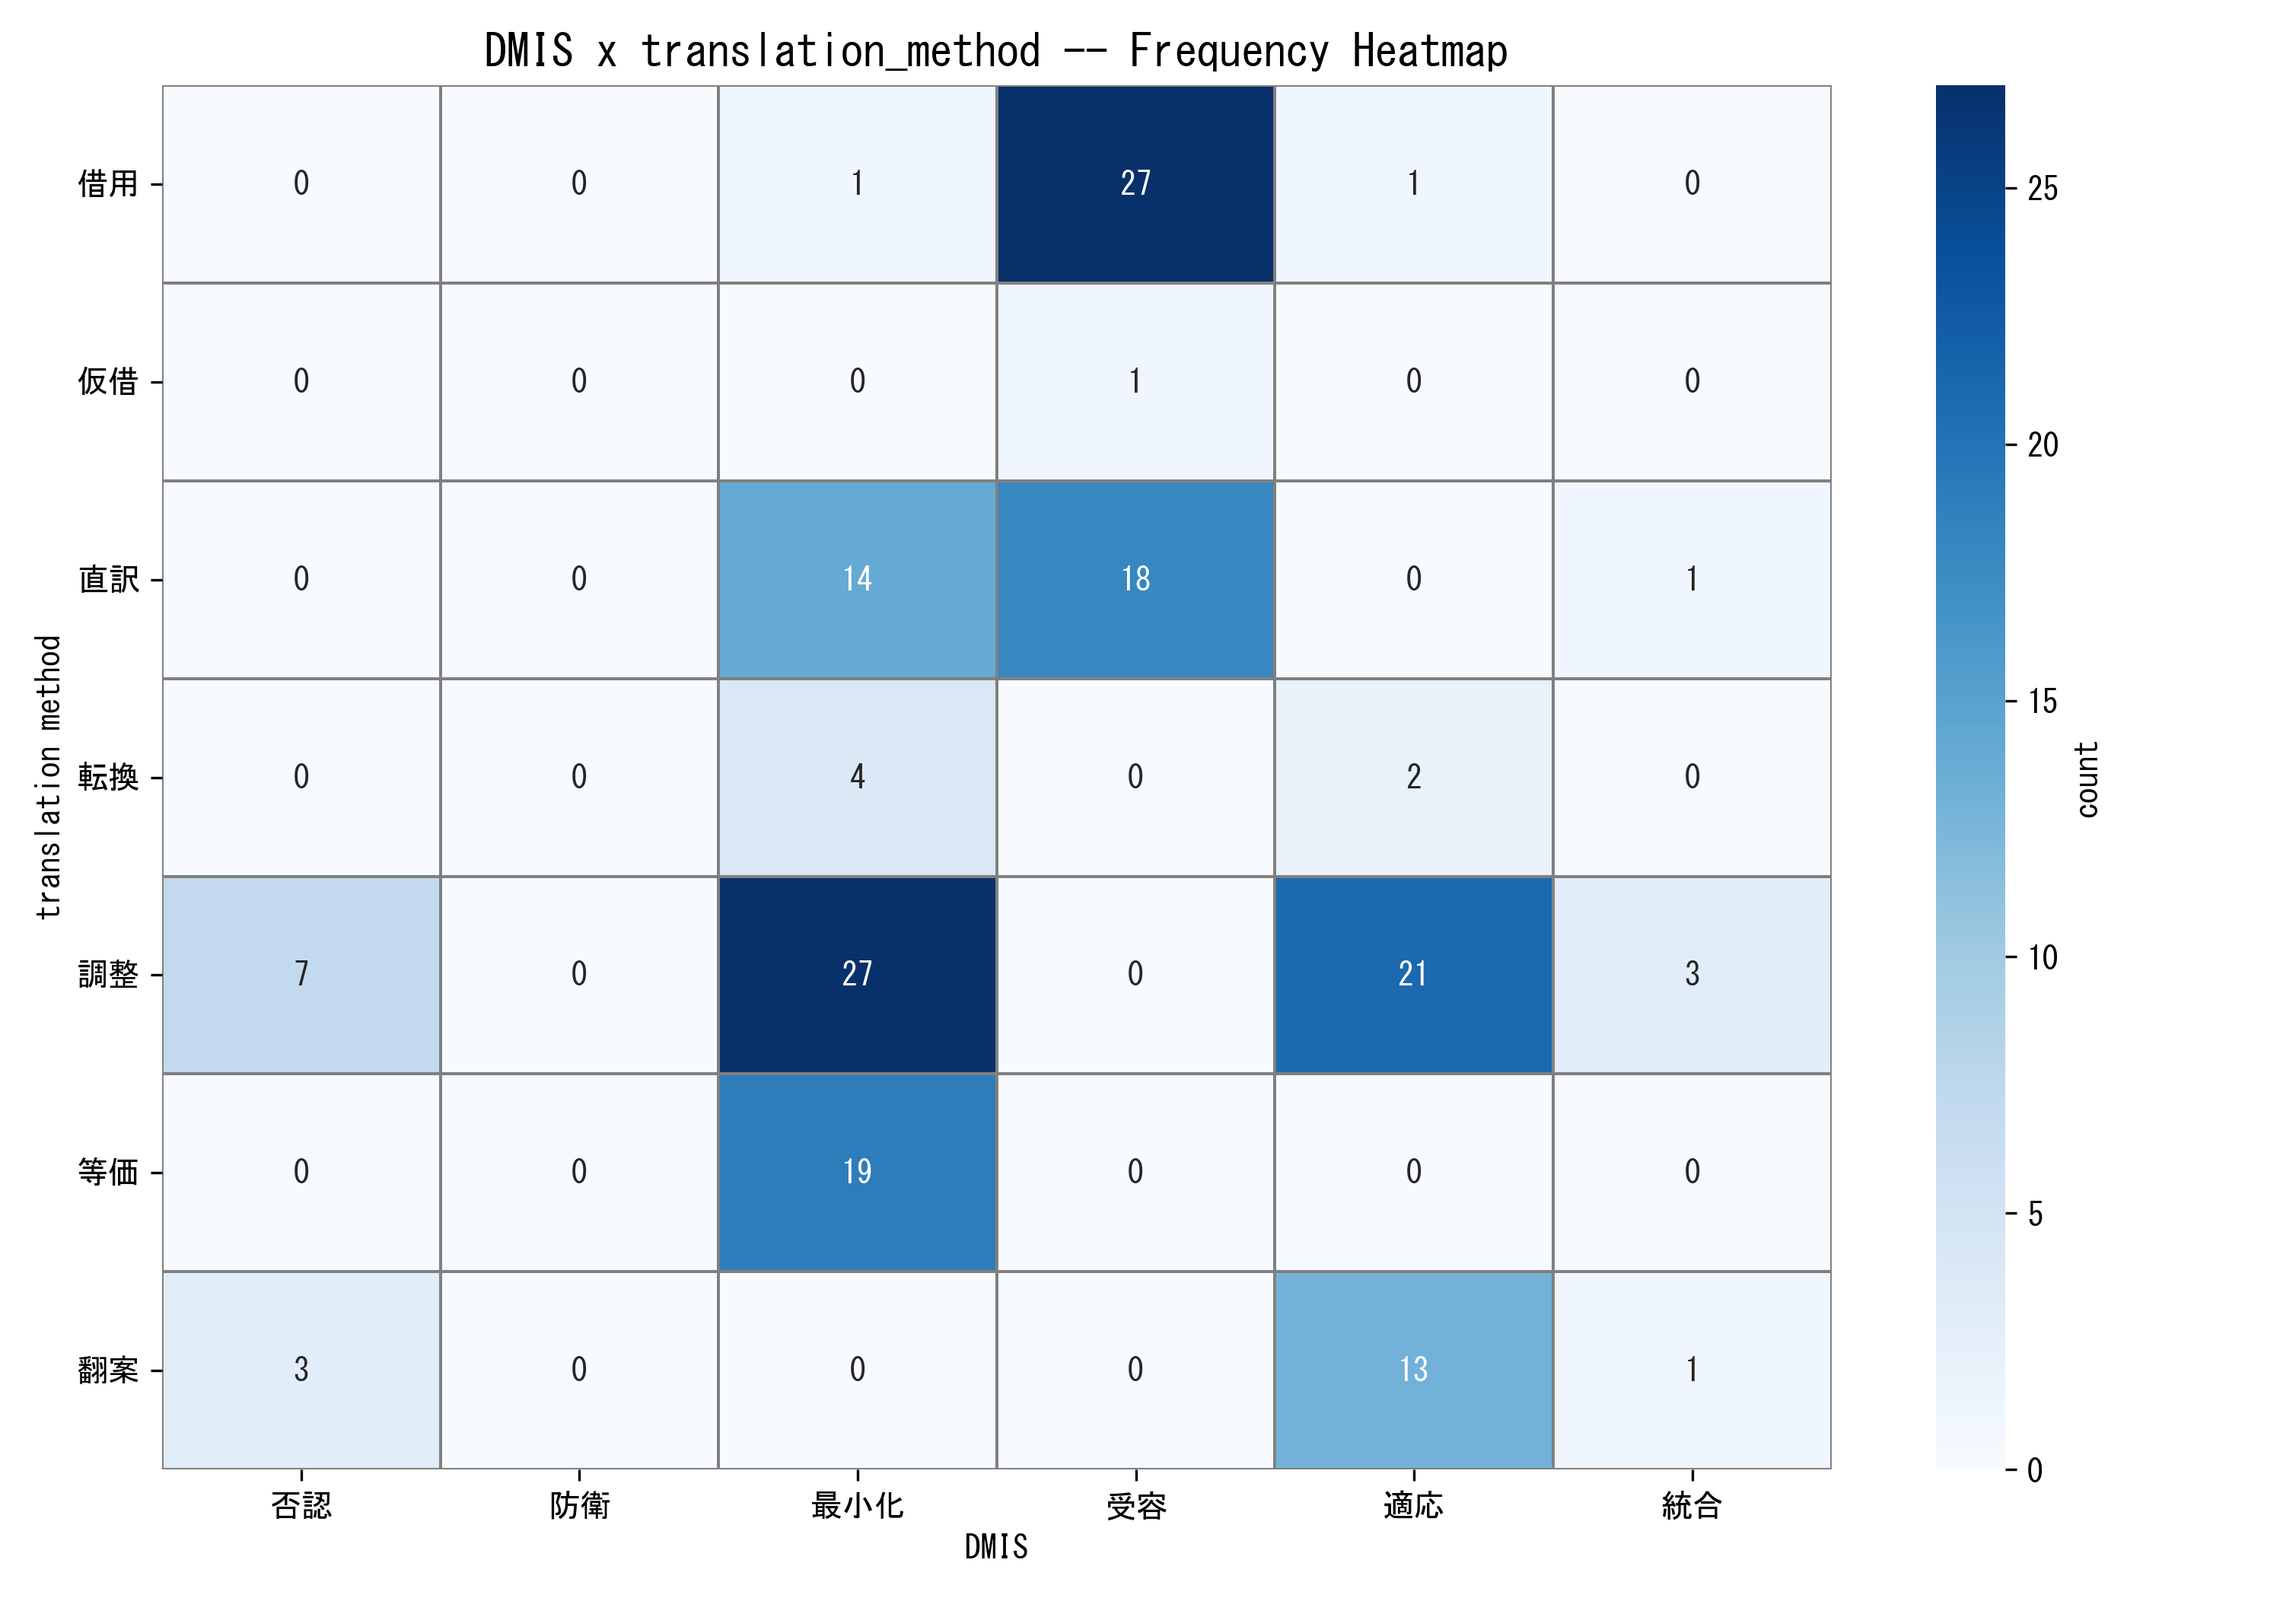
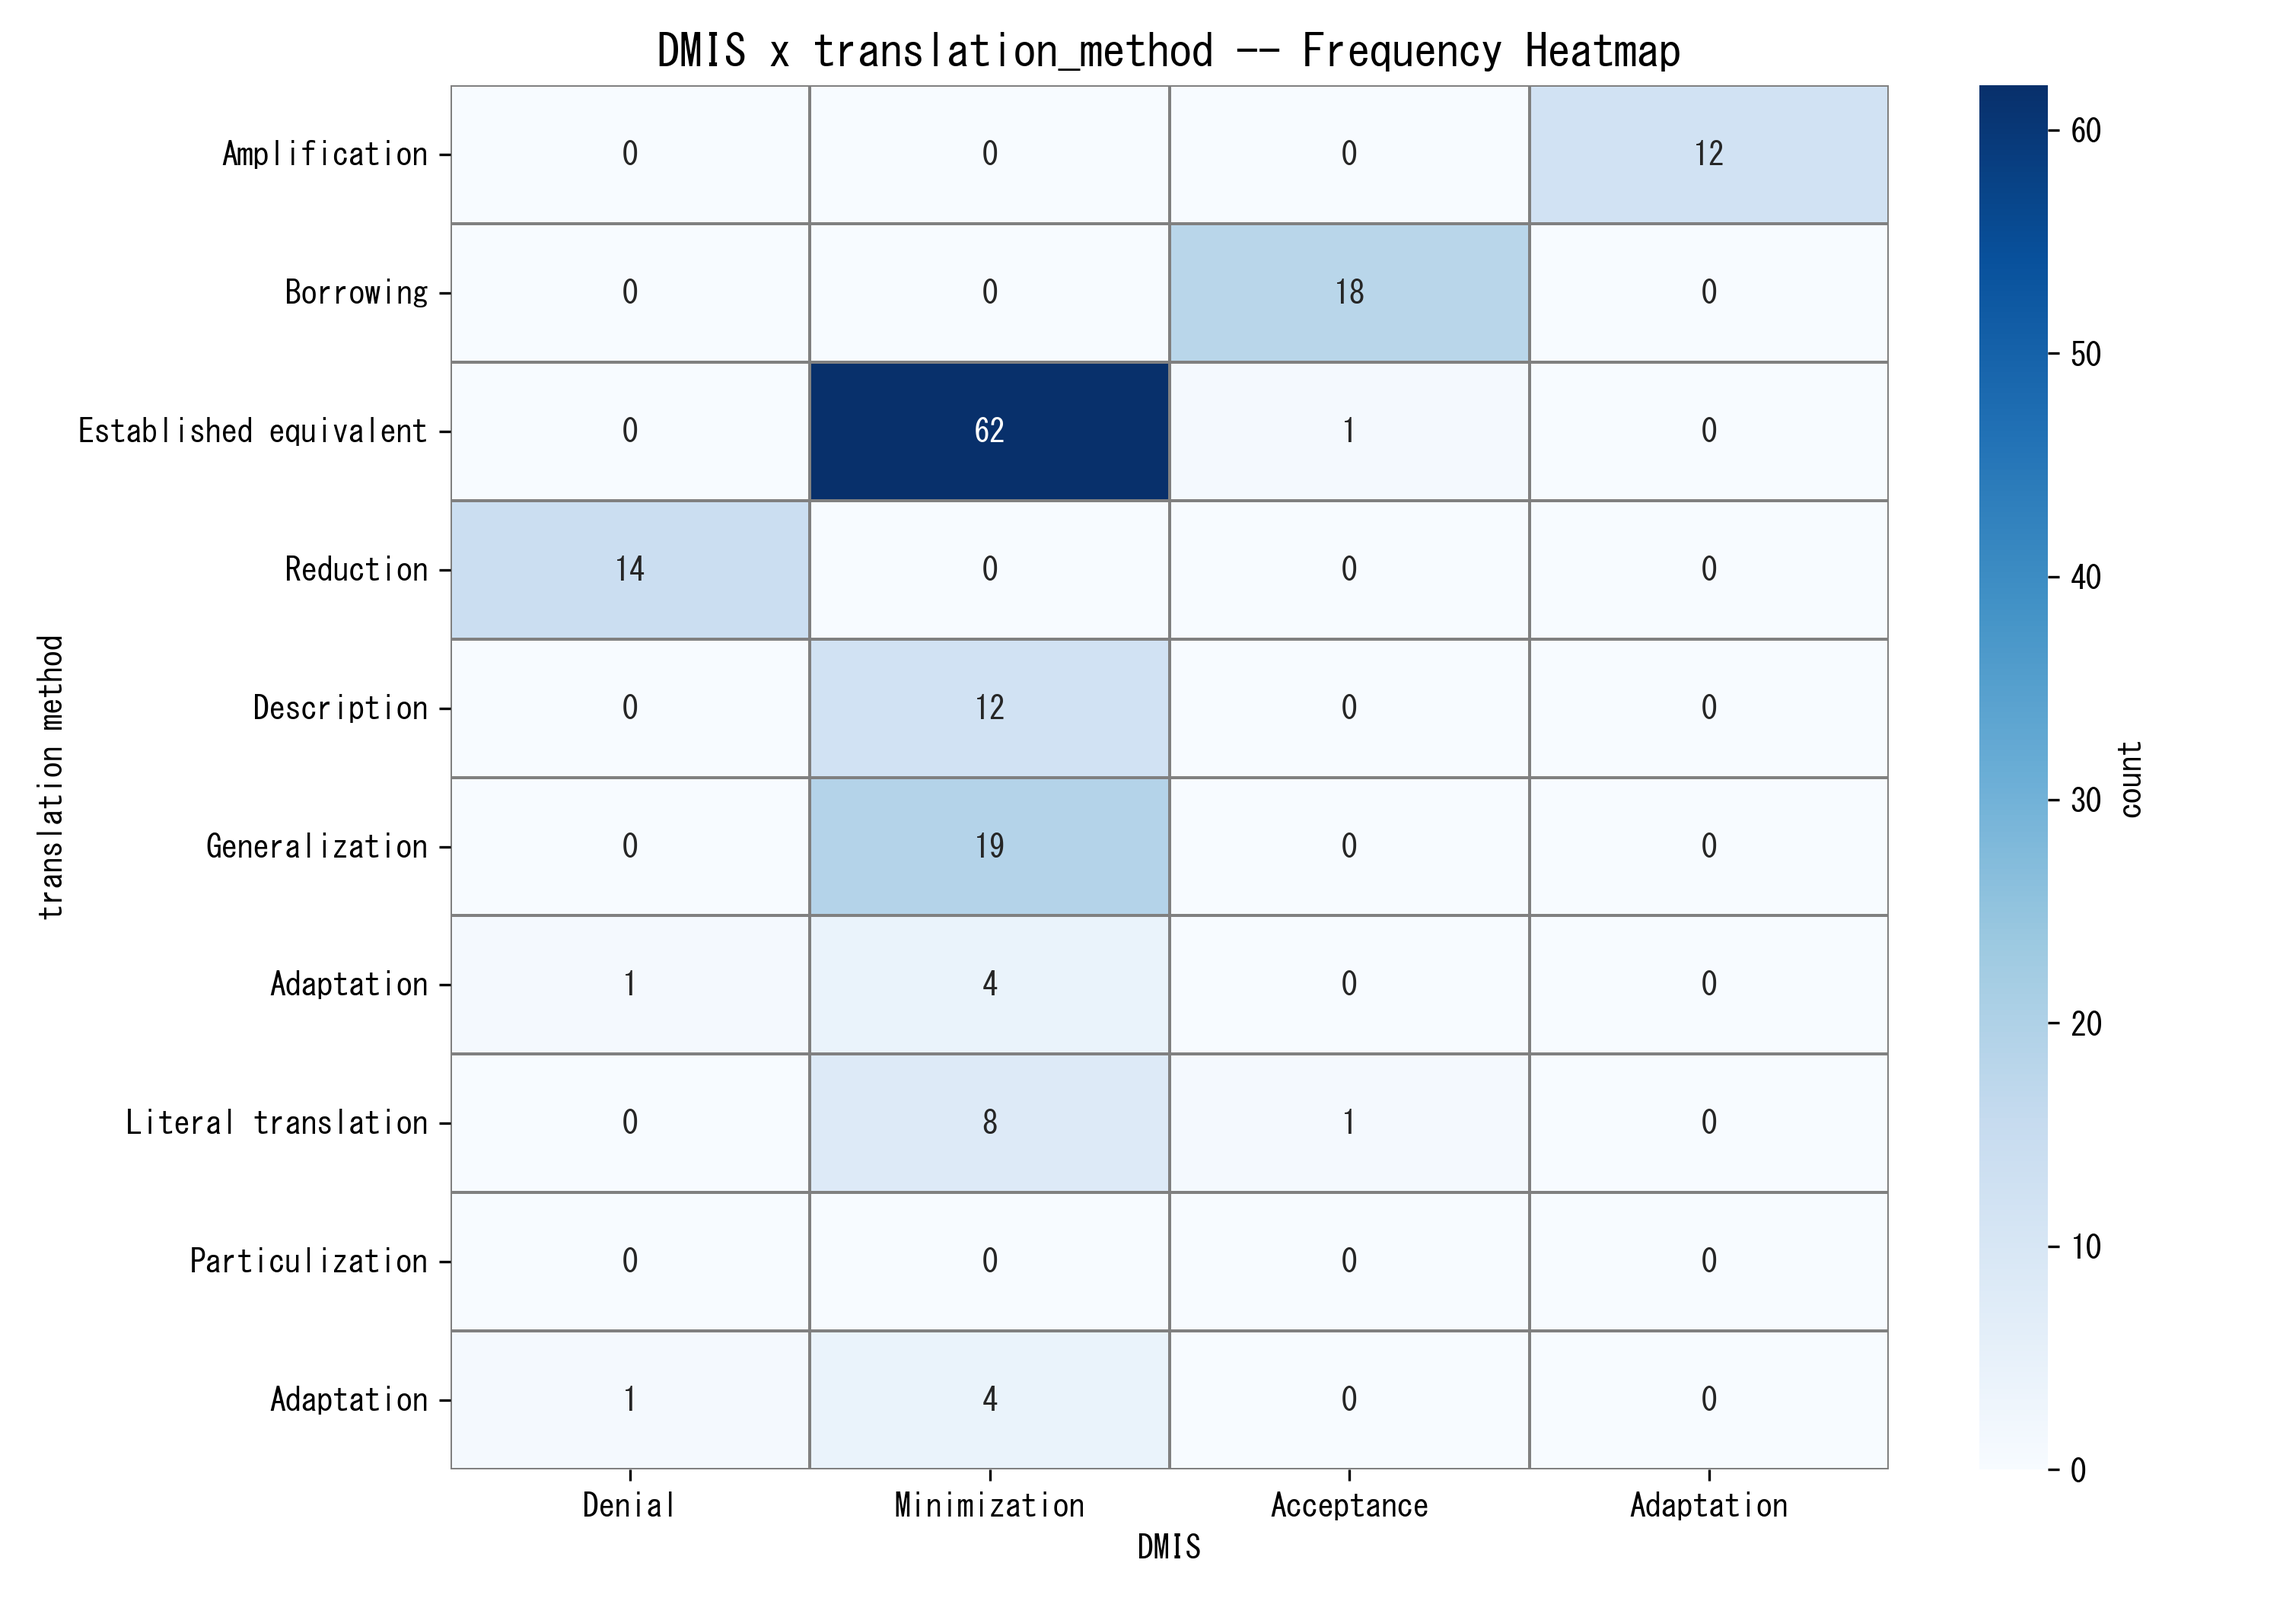
fix: 新分類に合わせた変更

diff --git a/tools/generate_heatmap/main.py b/tools/generate_heatmap/main.py
@@ -7,19 +7,19 @@ from pathlib import Path
 plt.rcParams['font.family'] = 'MS Gothic'
 
 # --- CSV 読み込み ---
-df = pd.read_csv("dmis_ineko.csv",encoding="utf-8", engine="python")
+df = pd.read_csv("test_data.csv",encoding="utf-8", engine="python")
 
 # --- 必要な2列だけ抽出 ---
-col_method = "translation_method"
-col_dmis   = "dmis_stage"
+col_method = "翻訳技法"
+col_dmis   = "DMIS"
 
 # --- 前処理：文字列化前後スペース削除、欠損は空文字に ---
 df[col_method] = df[col_method].astype(str).str.strip().fillna("")
 df[col_dmis]   = df[col_dmis].astype(str).str.strip().fillna("")
 
 # 想定するカテゴリ
-dmis_order = ['否認', '防衛', '最小化', '受容', '適応', '統合']
-methods_order = ['借用', '仮借', '直訳', '転換', '調整', '等価', '翻案']
+dmis_order = ['Denial', 'Minimization', 'Acceptance', 'Adaptation']
+methods_order = ['Amplification', 'Borrowing', 'Established equivalent', 'Reduction', 'Description', 'Generalization', 'Adaptation', 'Literal translation', 'Particulization', 'Adaptation']
 
 # --- 4. 未知ラベルの存在チェック（ログ出力） ---
 unknown_dmis = sorted(set(df[col_dmis].unique()) - set(dmis_order))
